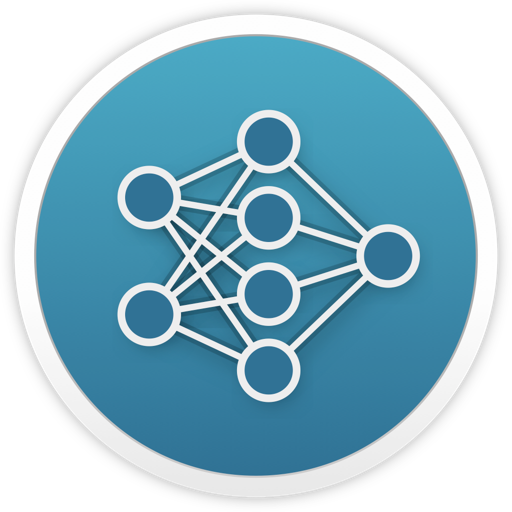
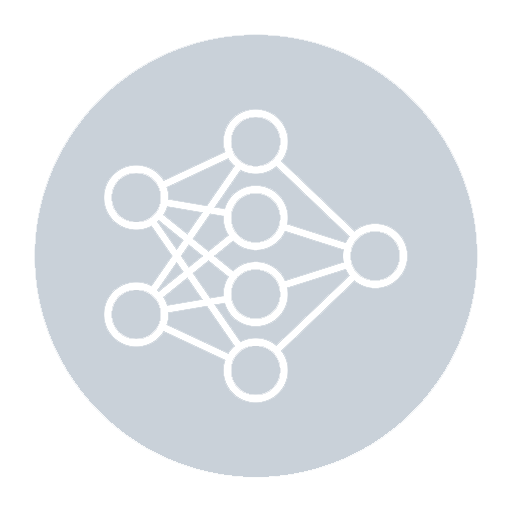
Updated README

diff --git a/README.md b/README.md
@@ -1,1 +1,10 @@
-# netron-vscode-extension
+# Netron-VSCode-Extension
+
+<div align="center"><image src="resources/icon.png" height="200" width="200"></div>
+
+The extension for Visual Studio Code that allows users to visualize many Deep Learning models using [Netron][netron] server.
+
+
+
+<!-- LINKS -->
+[netron]: https://github.com/lutzroeder/netron
